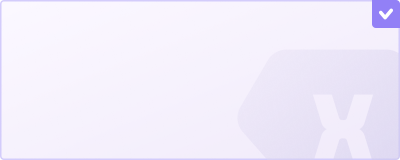
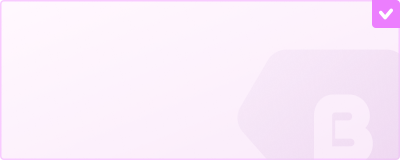
增加BVIP对应的等级，去掉BVIP使用XVIP的图标

Changed region(s): [[0.0, 0.0, 1.0, 1.0], [0.9, 0.9062, 0.93, 0.9375]]

diff --git a/mainwindow.cpp b/mainwindow.cpp
@@ -1405,10 +1405,7 @@ void MainWindow::ShowPhoneInfo(int iGroupId, QMap<int, S_PHONE_INFO> mapPhoneInf
                     phoneItem = new QTreeWidgetItem(item);
                     qDebug() << "phone id" << iter->iId << " name=" << iter->strName;
                     phoneItem->setData(0, Qt::UserRole, QVariant::fromValue(*iter));
-                    if (strLevelName.compare("BVIP", Qt::CaseInsensitive) == 0)
-                        phoneItem->setIcon(0,QIcon(QString(":/main/resource/main/XVIP.png")));
-                    else
-                        phoneItem->setIcon(0, QIcon(QString(":/main/resource/main/%1.png").arg(strLevelName)));
+                    phoneItem->setIcon(0, QIcon(QString(":/main/resource/main/%1.png").arg(strLevelName)));
 
                     expireTime = QDateTime::fromString(iter->strExpireTime, "yyyy-MM-dd hh:mm:ss");
                     mseconds = expireTime.toMSecsSinceEpoch() - curDateTime.toMSecsSinceEpoch();

diff --git a/phonelistmodeitemwidget.cpp b/phonelistmodeitemwidget.cpp
@@ -28,10 +28,7 @@ PhoneListModeItemWidget::PhoneListModeItemWidget(S_PHONE_INFO sPhoneInfo,QWidget
     }
 
     //ui->labelSystem->setText("Android");
-    if(sPhoneInfo.strLevelName.compare("BVIP",Qt::CaseInsensitive) == 0)
-        ui->toolBtnLevel->setIcon(QIcon(QString(":/main/resource/main/XVIP.png")));
-    else
-        ui->toolBtnLevel->setIcon(QIcon(QString(":/main/resource/main/%1.png").arg(sPhoneInfo.strLevelName)));
+    ui->toolBtnLevel->setIcon(QIcon(QString(":/main/resource/main/%1.png").arg(sPhoneInfo.strLevelName)));
     ui->toolBtnLevel->setText(QString("%1").arg(sPhoneInfo.strLevelName));
 
     QDateTime curDateTime = QDateTime::currentDateTime();

diff --git a/transferphonedialog.cpp b/transferphonedialog.cpp
@@ -105,10 +105,7 @@ void TransferPhoneDialog::LoadWidgetData(QMap<int, S_PHONE_INFO> mapPhoneInfo)
 
         checkBox = new QCheckBox(this);
         checkBox->setStyleSheet(strStyleSheet);
-        if (strLevelName.compare("BVIP", Qt::CaseInsensitive) == 0)
-            checkBox->setIcon(QIcon(QString(":/main/resource/main/XVIP.png")));
-        else
-            checkBox->setIcon(QIcon(QString(":/main/resource/main/%1.png").arg(strLevelName)));
+        checkBox->setIcon(QIcon(QString(":/main/resource/main/%1.png").arg(strLevelName)));
         if (iter->strName.isEmpty())
             checkBox->setText(iter->strInstanceNo);
         else

diff --git a/replacecloudphonedialog.h b/replacecloudphonedialog.h
@@ -63,10 +63,7 @@ private:
         {
             strLevelName = iterFind->strLevelName;
         }
-        if (strLevelName.compare("BVIP", Qt::CaseInsensitive) == 0)
-            m_checkBox->setIcon(QIcon(QString(":/main/resource/main/XVIP.png")));
-        else
-            m_checkBox->setIcon(QIcon(QString(":/main/resource/main/%1.png").arg(strLevelName)));
+        m_checkBox->setIcon(QIcon(QString(":/main/resource/main/%1.png").arg(strLevelName)));
         if (phoneInfo.strName.isEmpty())
             m_checkBox->setText(phoneInfo.strInstanceNo);
         else
